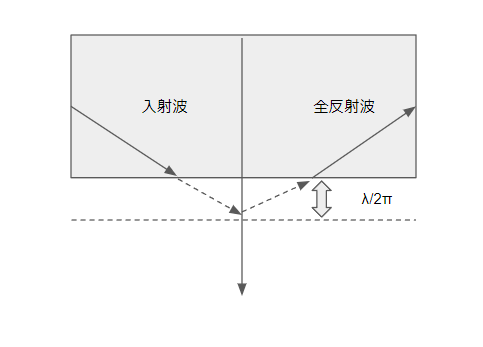
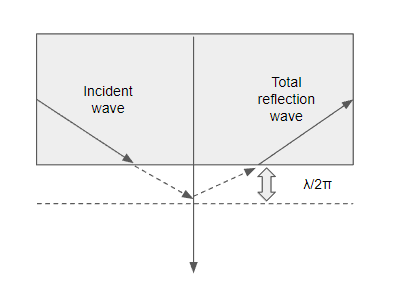
modify japanese image

diff --git a/english-ver/english-thesis.tex b/english-ver/english-thesis.tex
@@ -773,7 +773,7 @@ and all energy is also reflected.
 \begin{figure}
   \begin{center}
     \includegraphics[clip, keepaspectratio, width=0.5\linewidth]{img/insertion_reflection_evanescence.png}
-    \caption{evanescent成分の浸みだし}
+    \caption{Evanescent waves present in total internal reflection}
     \label{fig:insertion_reflection_evanescent}
   \end{center}
 \end{figure}
